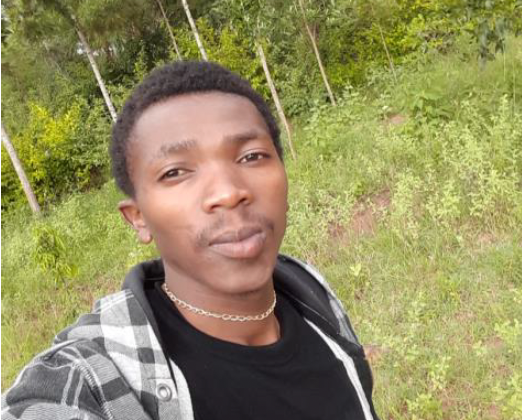
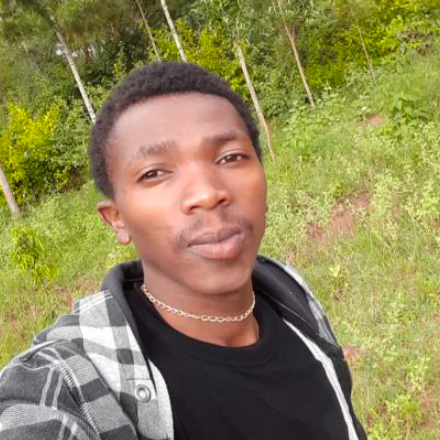
aligned all the content in the card

diff --git a/html/contact.html b/html/contact.html
@@ -56,8 +56,8 @@
         <!-- PROFILES -->
 
         <div class="container team-profile">
-            <div class="row">
-                <div class="col-xl-6 col-lg-7 col-md-12">
+            <div class="row justify-content-center">
+                <div class="col-xl-5 col-lg-7 col-md-12">
                     <div class="card team-head-profile">
                         <div class="body">
                             <div class="row">
@@ -87,7 +87,7 @@
 
 
                 
-                    <div class="col-xl-6 col-lg-7 col-md-12">
+                    <div class="col-xl-5 col-lg-7 col-md-12">
                         <div class="card team-head-profile">
                             <div class="body">
                                 <div class="row">
@@ -117,8 +117,8 @@
             
 
 
-            <div class="row">
-                <div class="col-xl-6 col-lg-7 col-md-12">
+            <div class="row justify-content-center">
+                <div class="col-xl-5 col-lg-7 col-md-12">
                     <div class="card team-head-profile">
                         <div class="body">
                             <div class="row">
@@ -144,33 +144,34 @@
                         </div>
                     </div>
                 </div>
-                
-                    <div class="col-xl-6 col-lg-7 col-md-12">
-                        <div class="card team-head-profile">
-                            <div class="body">
-                                <div class="row">
-                                    <div class="col-lg-3 col-md-4 col-12">
-                                        <div class="profile-picture float-md-right"> <img class="profile-img" src="../images/Arich.png" alt=""> </div>
-                                    </div>
-    
-                                    <div class="col-lg-8 col-md-8 col-12">
-                                        <h4 class="m-t-0 m-b-0"><strong>Arich</strong> Mutua</h4>
-                                        <p>Job Title</p>                                    
-                                        <p>Machakos, Kenya</p>
-                                        <p><a href="mailto:arichmutua@gmail.com">arichmutua@gmail.com</a></p>
-                                        <p><a href="tel:254 719 224 481"></a>254 719 224 481</a></p>
-                                    </div>
+
+                <div class="col-xl-5 col-lg-7 col-md-12">
+                    <div class="card team-head-profile">
+                        <div class="body">
+                            <div class="row">
+                                <div class="col-lg-3 col-md-4 col-12">
+                                    <div class="profile-picture float-md-right"> <img class="profile-img" src="../images/Arich.png" alt=""> </div>
                                 </div>
 
-                                <div class="row">
-                                    <div class="col-md-12 d-flex justify-content-end">
-                                      <button  class="contact-btn btn btn-primary ">Follow</button>
-                                      <button  class="contact-btn btn btn-secondary">Message</button>
-                                    </div>
+                                <div class="col-lg-8 col-md-8 col-12">
+                                    <h4 class="m-t-0 m-b-0"><strong>Arich</strong> Mutua</h4>
+                                    <p>Job Title</p>                                    
+                                    <p>Machakos, Kenya</p>
+                                    <p><a href="mailto:arichmutua@gmail.com">arichmutua@gmail.com</a></p>
+                                    <p><a href="tel:254 719 224 481"></a>254 719 224 481</a></p>
+                                </div>
+                            </div>
+
+                            <div class="row">
+                                <div class="col-md-12 d-flex justify-content-end">
+                                  <button  class="contact-btn btn btn-primary ">Follow</button>
+                                  <button  class="contact-btn btn btn-secondary">Message</button>
                                 </div>
                             </div>
                         </div>
                     </div>
+                </div>
+                
             </div>
         </div>
 
@@ -183,7 +184,7 @@
                 </div>
                 <hr>
                 <form>
-                <div class="mb-3 row">
+                <div class="formrows mb-3 row">
                     <div class="col-2"></div>
                     <label for="username" class="col-sm-2 col-form-label"> <img class="form-img col-sm-1" src="../images/user.png"/>Name</label>
                     <div class="col-sm-6">
@@ -193,7 +194,7 @@
                 </div>
                       
                 
-                <div class="mb-3 row">
+                <div class="formrows mb-3 row">
                     <div class="col-2"></div>
                     <label for="phone" class="col-sm-2 col-form-label"> <img class="form-img col-sm-1" src="../images/Phone.png"/>Phone</label>
                     <div class="col-sm-6">
@@ -202,7 +203,7 @@
                     <div class="col-2"></div>
                 </div>
 
-                <div class="mb-3 row">
+                <div class="formrows mb-3 row">
                     <div class="col-2"></div>
                     <label for="email" class="col-sm-2 col-form-label"> <img class="form-img col-sm-1" src="../images/mail.png"/>Email</label>
                     <div class="col-sm-6">
@@ -211,7 +212,7 @@
                     <div class="col-2"></div>
                 </div>
 
-                <div class="mb-3 row">
+                <div class="formrows mb-3 row">
                     <div class="col-2"></div>
                     <label for="message" class="col-sm-2 col-form-label"> <img class="form-img col-sm-1" src="../images/msg.png"/>Message</label>
                     <div class="col-sm-6">
@@ -221,7 +222,6 @@
                 </div>
 
                 <div class="mb-3 row justify-content-center">
-                    
                         <button type="submit" value="Send message" name="submit" id="submitButton" class="col-auto btn btn-contact-bg " title="Submit Your Message!">Send Message</button>
                 </div>
                             </form>

diff --git a/css/contact.css b/css/contact.css
@@ -1,5 +1,5 @@
 .profile-img{
-    width: 80%;
+    width: 90%;
     box-shadow: 0 3px 6px rgba(0, 0, 0, 0.16), 0 3px 6px rgba(0, 0, 0, 0.23);
     margin: 0 auto;
     display: block;
@@ -58,7 +58,7 @@ border: 3px solid black;
     FORM STYLING 
 ******************/
 .contact-btn{
-    margin: 2%;
+    margin: 0 1%;
 }
 
 
@@ -73,7 +73,10 @@ border: 3px solid black;
     border-radius: .5em;
     padding: 1%;
     box-shadow: 0 3px 6px rgba(0, 0, 0, 0.16), 0 3px 6px rgba(0, 0, 0, 0.23);
+}
 
+hr{
+    margin-bottom: 5%;
 }
 
 .form-img{
